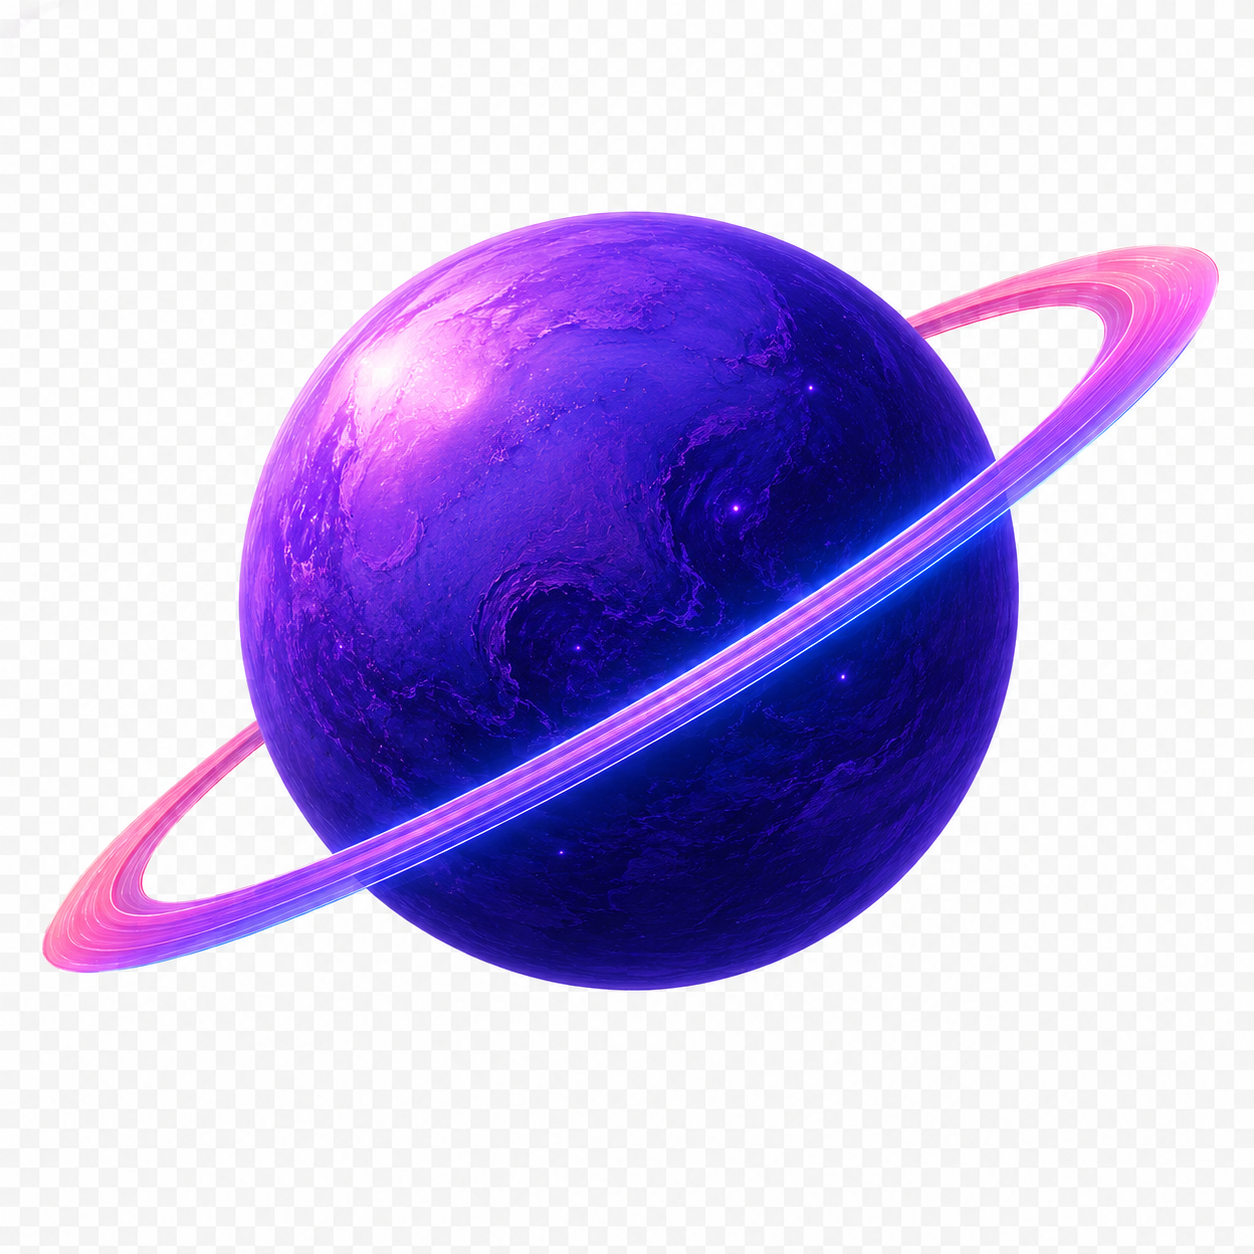
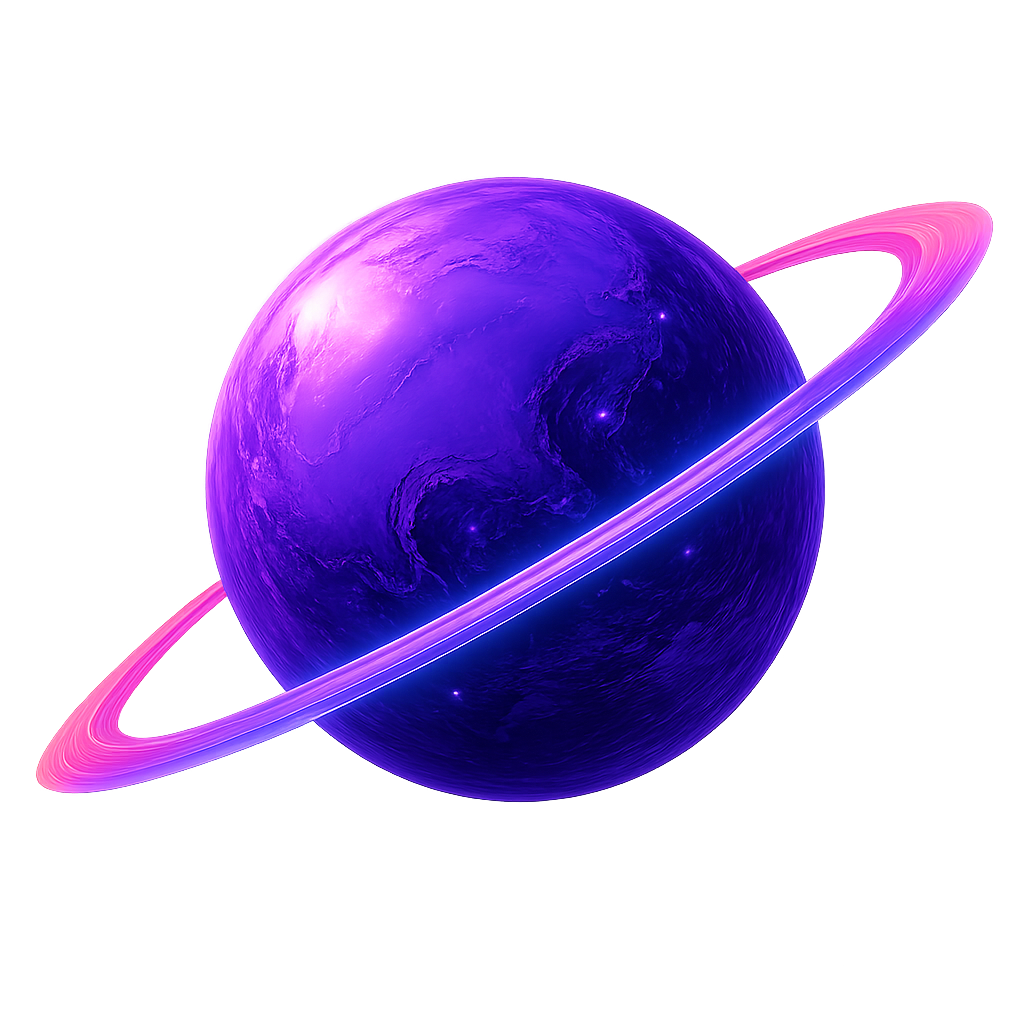
completed nav

Changed region(s): [[0.0312, 0.1562, 0.9688, 0.8125]]

diff --git a/style.css b/style.css
@@ -5,14 +5,15 @@
 }
 
 body {
-    background-color: #10012c; /* Той самий колір, що й у контейнера */
+    background-color: #10012c;
     margin: 0;
     padding: 0;
 }
 
 .container{
-    width: 1450px;
+    width: 1600px;
     min-height: 100vh;
+    margin: 0 auto;
     height: auto;
     display: flex;
     flex-direction: column;
@@ -20,10 +21,9 @@ body {
 }
 
 .header{
-    width: 1300px;
+    width: 1600px;
     height: 150px;
     display: flex;
-    margin: 0 auto;
     margin-bottom: 20px;
     margin-top: 20px;
     background: radial-gradient(#081030 , #141434 , #101434);
@@ -36,7 +36,9 @@ body {
     height: 100px;
     margin:20px;
     border-radius: 40px;
-    border: 3px solid white;
+    overflow: hidden;
+    background: url("./img/logo.png");
+    background-size: cover;
 }
 
 
@@ -52,28 +54,27 @@ body {
     display: flex;
     justify-content: center;
     align-items: center;
-    
 }
 
 .infoButtons {
-    width: auto;             
+    width: auto;
     height: 50px;
     display: flex;
-    justify-content: center; 
+    justify-content: center;
     align-items: center;
-    gap: 40px;               
+    gap: 40px;
 }
 
 .infoButton {
     text-decoration: none;
     color: white;
     font-size: 25px;
-    white-space: nowrap;     
+    white-space: nowrap;
     transition: color 0.3s;
 }
 
 .infoButton:hover {
-    color: #8a2be2;         
+    color: #8a2be2;
 }
 
 .buttonStart{
@@ -83,7 +84,6 @@ body {
     justify-content: center;
     align-items: center;
     border: none;
-    
 }
 
 .buttonStart button{
@@ -97,10 +97,9 @@ body {
 }
 
 .main{
-    width: 1300px;
+    width: 1600px;
     min-height: 2000px;
     flex-direction: column;
-    margin: 0 auto;
     display: flex;
     flex-direction: row;
     position: relative;
@@ -111,7 +110,7 @@ body {
 
 .nav{
     width: 300px;
-    height: 800px;
+    height: 810px;
     background: #000;
     display: flex;
     flex-direction: column;
@@ -127,9 +126,8 @@ body {
     width: 300px;
     height: 40px;
     justify-content: flex-start;
-    padding: 30px 20px;
+    padding: 20px 20px;
     color: #9099eb;
-    
 }
 
 .navTitleBorder{
@@ -143,22 +141,109 @@ body {
 
 .navSectionsInfo{
     width: 300px;
-    height: 480px;
+    height: 430px;
     display: flex;
     flex-direction: column;
 }
 
 .navSection{
-    width: 100%;
-    height: 100px;
+    width: 280px;
+    height: 80px;
     display: flex;
     justify-content: flex-start;
+    margin-left: 10px;
+    align-items: center;
+    cursor: pointer;
+    border-radius: 30px;
+    transition: 0.2s ;
+}
+
+.navSection:hover{
+    width: 280px;
+    background: #5425be;
+    border: 1px solid #5425be;
 }
 
 .navSectionImg{
-    width: 50px;
-    height: 50px;
-    background: #300871;
-    margin-bottom: 40px;
+    width: 45px;
+    height: 45px;
+    background: #400a96;
+    margin: 0 30px 0 20px;
+    column-gap: 10px;
     border-radius: 30px;
+}
+
+.navSectionText{
+    width: 200px;
+    display: flex;
+    flex-direction: column;
+    color: rgb(245, 245, 248);
+
+}
+
+.navSectionText h1{
+    font-size: 20px;
+    padding-bottom: 10px;
+}
+
+.navSectionText p{
+    color: rgb(201, 201, 216);
+}
+
+.navSugest{
+    width: 200px;
+    height: 260px;
+    background: #09102d ;
+    border: 1px solid grey;
+    border-radius: 30px;
+    display: flex;
+    flex-direction: column;
+}
+
+
+.navSugest img{
+    width: 150px;
+    height: 150px;
+    align-self: center;
+}
+
+.navSugestText{
+    width: 100%;
+    display: flex;
+    flex-direction: column;
+    color: rgb(245, 245, 248);
+    padding-left: 10px;
+}
+
+.navSugestText h1{
+    font-size: 20px;
+    padding-bottom: 10px;
+}
+
+.navSugestText p{
+    color: rgb(201, 201, 216);
+}
+
+.mainInfo{
+    width: 1270px;
+    height: 810px;
+    display: flex;
+    flex-direction: column;
+    margin-left: 30px;
+}
+
+.blockMainInfo{
+    width: 1270px;
+    height: 610px;
+    display: flex;
+    flex-direction: column;
+    justify-content: center;
+    background-image: url("./img/main_page.png");
+    background-size: cover;
+    border-radius: 30px;
+    border: 1px solid grey;
+}
+
+.blockMainInfo{
+    
 }

diff --git a/index.html b/index.html
@@ -10,7 +10,6 @@
     <div class="container">
         <div class="header">
             <div class="logoImage">
-                <img src="./img/logo.png" alt="">
             </div>
             <div class="headerInfo">
                 <div class="infoButtons">
@@ -19,7 +18,6 @@
                     <a class="infoButton" href="#">Практика</a>
                     <a class="infoButton" href="#">Контакти</a>
                 </div>
-                
             </div>
             <div class="buttonStart">
                 <button>Почати практику →</button>
@@ -34,39 +32,64 @@
                 <div class="navSectionsInfo">
                     <div class="navSection">
                         <div class="navSectionImg">
-                            
+                        </div>
+                        <div class="navSectionText">
+                            <h1>Section 1</h1>
+                            <p>Вступ</p>
                         </div>
                     </div>
                     <div class="navSection">
                         <div class="navSectionImg">
-                            
+                        </div>
+                        <div class="navSectionText">
+                            <h1>Section 2</h1>
+                            <p>Відносне позиціонування</p>
                         </div>
                     </div>
                     <div class="navSection">
                         <div class="navSectionImg">
-                            
+                        </div>
+                        <div class="navSectionText">
+                            <h1>Section 3</h1>
+                            <p>Абсолютне <br>позиціонування </p>
                         </div>
                     </div>
                     <div class="navSection">
                         <div class="navSectionImg">
-                            
+                        </div>
+                        <div class="navSectionText">
+                            <h1>Section 4</h1>
+                            <p>Фіксоване та липке</p>
                         </div>
                     </div>
                     <div class="navSection">
                         <div class="navSectionImg">
-                            
+                        </div>
+                        <div class="navSectionText">
+                            <h1>Section 5</h1>
+                            <p>Що ми вивчили</p>
                         </div>
                     </div>
                 </div>
-                
+                <div class="navSugest">
+                        <img src="./img/planet.png" alt="">
+                        <div class="navSugestText">
+                            <h1>Порада</h1>
+                            <p>Lorem ipsum dolor sit amet consectetur adipisicing elit. Esse, ex!</p>
+                        </div>
+                </div>
             </div>
-            <div mainInfo>
-
+            <div class="mainInfo">
+                <div class="blockMainInfo">
+                    <h1>Практика всіх <br>значень <span class="MainInfoTitle">CSS position</span> </h1>
+                    <p>
+                        Макет для тренування <span class="mainInfoStatic">Static</span> , <span class="mainInfoRelative">Relative</span> ,<br> <span class="mainInfoAbsolute">Absolute</span> , <span class="mainInfoFixed">Fixed</span> та <span class="mainInfoSticky">Sticky</span> 
+                    </p>
+                    <button>Почати Практику </button>
+                </div>
             </div>
 
         </div>
     </div>
-    
-    
 </body>
 </html>